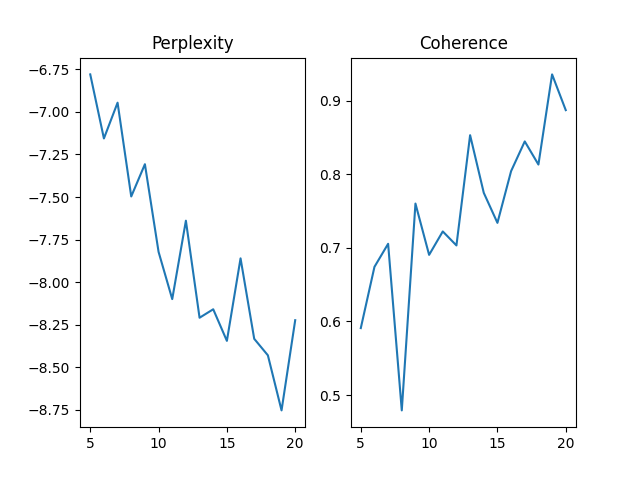
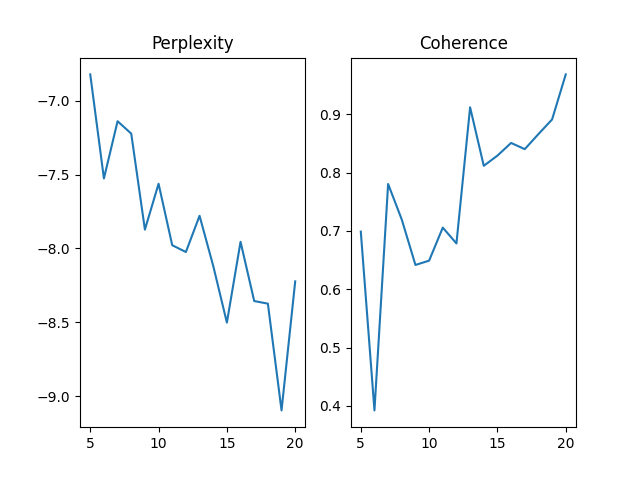
2f

diff --git a/README.md b/README.md
@@ -11,9 +11,13 @@
   
   ![Image](./coherence_values_per_nb_m_image.png)
 
-  Podemos percatarnos que la coherencia esta en su mayor valor para la cantidad de temas esperados igual a 19 y la perplexity está en su valor mas bajo que es generalmente lo buscado. Por lo que podemos conluir que dentro del rango buscado, la mejor cantidad de temas esperados es 19.
+  Podemos percatarnos que la coherencia esta en su mayor valor para la cantidad de temas esperados igual a 18 y la perplexity está en su valor mas bajo que es generalmente lo buscado. Por lo que podemos conluir que dentro del rango buscado, la mejor cantidad de temas esperados es 18.
   
-- e) Se puede observar que al ejecutar el programa usando `TokanVieuxN.txt` para 10 temas esperados, sin remover las _stopwords_ tenemos una coherencia aproximada de `0.3144` mientras que para removiendo las _stopwords_ obtenemos una coherencia de `0.5781` aproximadamente, lo que indica que eliminar las _stopwords_ siempre mejora la coherencia del modelo.
+- e) Se puede observar que al ejecutar el programa usando `TokenVieuxN.txt` para 10 temas esperados, sin remover las _stopwords_ tenemos una coherencia aproximada de `0.3144` mientras que para removiendo las _stopwords_ obtenemos una coherencia de `0.5781` aproximadamente, lo que indica que eliminar las _stopwords_ siempre mejora la coherencia del modelo.
+
+- f) A pesar de que también tiende a crecer la coherencia de acuerdo a la cantidad de temas esperados, se puede observar que varía diferente en `TokenVieuxN.txt`, por lo que se puede concluir que la cantidad de temas óptimos es en función a los datos.
+
+  ![Image](./coherence_values_per_nb_n_image.png)
 
 
 ----
